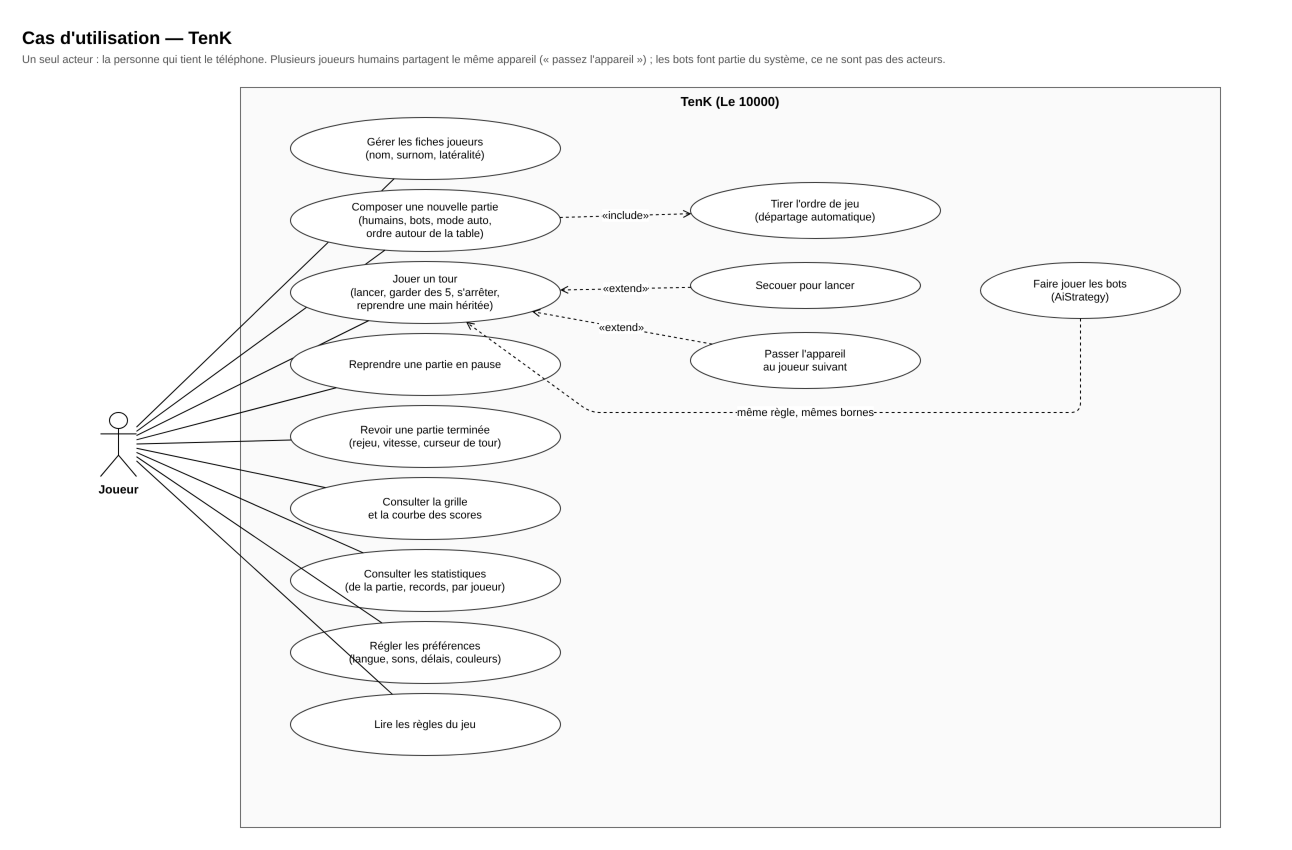
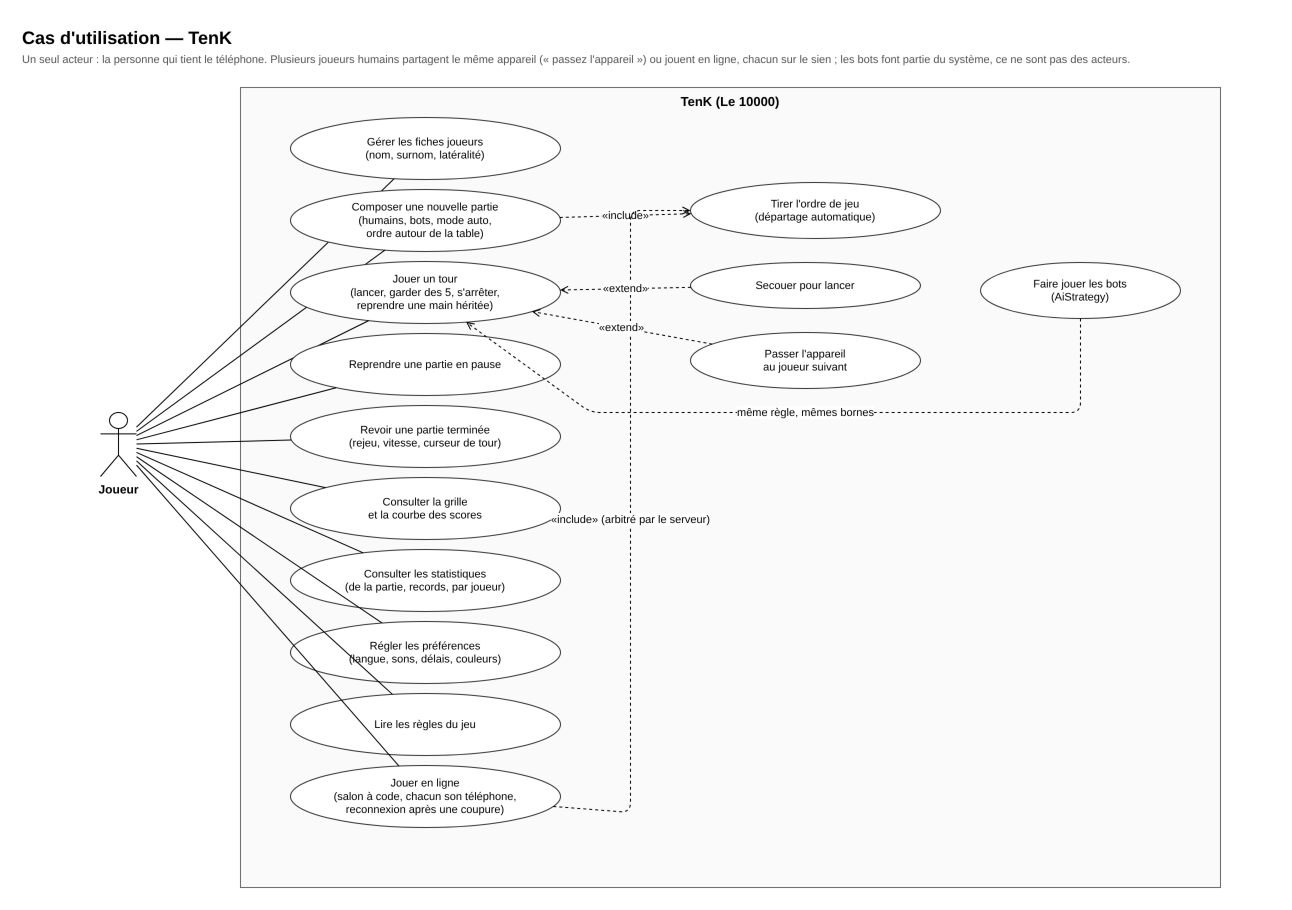
docs: online games in the architecture, the UML set and the privacy policy
Class diagram gains the online zone (shared protocol, client session,
server); components, deployment, use cases and screen flow show the server,
the TLS proxy and the three online screens; a new sequence diagram follows a
move from the room to the broadcast. The privacy policy now says what online
play sends (pseudo, random token, moves — in memory only) instead of
claiming the app never talks to a server.

Claude-Session: https://claude.ai/code/session_01KwBBGkCP45jdW91CU4y1he

diff --git a/docs/privacy-policy.html b/docs/privacy-policy.html
@@ -103,7 +103,7 @@
 <header>
   <div class="mark"><span class="die"></span> TenK</div>
   <h1>Politique de confidentialité — Privacy Policy</h1>
-  <div class="updated">Dernière mise à jour / Last updated: 31 août 2026</div>
+  <div class="updated">Dernière mise à jour / Last updated: 26 septembre 2026</div>
 </header>
 
 <main>
@@ -113,24 +113,39 @@
     does not do) with your data.
   </p>
 
-  <h2>Aucune donnée n'est collectée</h2>
+  <h2>Aucune donnée n'est collectée en jeu local</h2>
   <p>
-    TenK ne collecte, ne transmet et ne partage aucune donnée personnelle. L'application ne
-    contient aucun outil d'analyse, aucune publicité, aucun service tiers de suivi.
+    Quand tu joues sur cet appareil (contre des bots ou en te passant le téléphone), TenK ne
+    collecte, ne transmet et ne partage aucune donnée personnelle. L'application ne contient
+    aucun outil d'analyse, aucune publicité, aucun service tiers de suivi.
   </p>
 
   <h2>Fonctionnement hors ligne</h2>
   <p>
-    TenK ne nécessite aucune connexion internet pour fonctionner et n'envoie aucune information
-    vers un serveur, quel qu'il soit.
+    Le jeu local ne nécessite aucune connexion internet et n'envoie aucune information vers un
+    serveur. Seules les parties en ligne, facultatives, utilisent internet (voir ci-dessous).
+  </p>
+
+  <h2>Parties en ligne (facultatives)</h2>
+  <p>
+    Si tu choisis de jouer en ligne, TenK se connecte au serveur de jeu le temps de la partie.
+    Sont alors transmis : <strong>le pseudo que tu saisis</strong> (visible des autres joueurs du
+    salon), <strong>un jeton aléatoire</strong> qui te permet de retrouver ta place après une
+    coupure, et <strong>les coups de la partie</strong>. Ces informations ne sont conservées que
+    dans la mémoire du serveur, le temps de la partie, et sont effacées quand le salon disparaît
+    (au plus 24 heures après la dernière activité). Le serveur ne les écrit sur aucun disque, ne
+    les relie à aucune identité et ne les partage avec personne. Ton adresse IP n'est utilisée
+    qu'en mémoire, pour limiter les abus (nombre de connexions), et n'est pas enregistrée.
+    Aucun compte, aucune adresse e-mail, aucune publicité, aucun outil d'analyse.
   </p>
 
   <h2>Données stockées localement</h2>
   <p>
     Les seules données enregistrées sont conservées <strong>uniquement sur ton appareil</strong> :
-    le nom du joueur et tes préférences (langue, couleur des dés, sons, musique, délais
-    d'automatisation). Elles ne quittent jamais l'appareil et sont supprimées si tu désinstalles
-    l'application.
+    le nom du joueur, tes parties et tes préférences (langue, couleur des dés, sons, musique,
+    délais d'automatisation) et, pendant une partie en ligne, le jeton qui permet d'y revenir.
+    Ils restent sur l'appareil (hors ce qui est décrit pour les parties en ligne) et sont
+    supprimés si tu désinstalles l'application.
   </p>
 
   <h2>Aucun compte requis</h2>
@@ -138,8 +153,9 @@
 
   <h2>Enfants</h2>
   <p>
-    Comme TenK ne collecte aucune donnée, l'application peut être utilisée par des enfants en
-    toute confidentialité.
+    En jeu local, TenK ne collecte aucune donnée : l'application peut être utilisée par des
+    enfants en toute confidentialité. En ligne, le pseudo est visible des autres joueurs du
+    salon : il vaut mieux ne pas y mettre le vrai nom d'un enfant.
   </p>
 
   <h2>Modifications de cette politique</h2>
@@ -153,27 +169,47 @@
 
   <hr class="lang-divider"><span>English</span>
 
-  <h2>No data is collected</h2>
+  <h2>No data is collected in local play</h2>
   <p>
-    TenK does not collect, transmit, or share any personal data. The app contains no analytics,
-    no advertising, and no third-party tracking services.
+    When you play on this device (against bots or by passing the phone around), TenK does not
+    collect, transmit, or share any personal data. The app contains no analytics, no advertising,
+    and no third-party tracking services.
   </p>
 
-  <h2>Works entirely offline</h2>
-  <p>TenK does not require an internet connection to function and never sends any information to any server.</p>
+  <h2>Works offline</h2>
+  <p>
+    Local play needs no internet connection and sends no information to any server. Only online
+    games, which are optional, use the internet (see below).
+  </p>
+
+  <h2>Online games (optional)</h2>
+  <p>
+    If you choose to play online, TenK connects to the game server for the duration of the game.
+    What is then sent: <strong>the nickname you type</strong> (visible to the other players in the
+    room), <strong>a random token</strong> that lets you get your seat back after a dropped
+    connection, and <strong>the moves of the game</strong>. This is kept only in the server's
+    memory, for the length of the game, and is erased when the room goes away (at most 24 hours
+    after its last activity). The server writes it to no disk, links it to no identity and shares
+    it with no one. Your IP address is used in memory only, to limit abuse (number of
+    connections), and is not recorded. No account, no email address, no advertising, no analytics.
+  </p>
 
   <h2>Locally stored data</h2>
   <p>
-    The only information saved is stored <strong>on your device only</strong>: the player's name
-    and preferences (language, dice colour, sound, music, auto-play delays). It never leaves the
-    device, and is removed if you uninstall the app.
+    The only information saved is stored <strong>on your device</strong>: the player's name, your
+    games and preferences (language, dice colour, sound, music, auto-play delays) and, during an
+    online game, the token that lets you come back to it. It stays on the device (apart from what
+    is described for online games), and is removed if you uninstall the app.
   </p>
 
   <h2>No account required</h2>
   <p>The app does not ask for an account, a login, or an email address.</p>
 
   <h2>Children</h2>
-  <p>Since TenK collects no data at all, the app is safe for children to use.</p>
+  <p>
+    In local play TenK collects no data at all, so the app is safe for children to use. Online, the
+    nickname is visible to the other players in the room: better not to use a child's real name.
+  </p>
 
   <h2>Changes to this policy</h2>
   <p>If this policy changes, the updated version will be published at this same address.</p>

diff --git a/CLAUDE.md b/CLAUDE.md
@@ -17,13 +17,17 @@ flutter test                 # run the full test suite
 flutter test test/game/combination_test.dart   # run a single test file
 flutter test --plain-name "un craque affiche"  # run tests matching a name
 flutter run -d linux         # run the app locally (see below — this is the only viable local target)
+(cd server && dart pub get && dart analyze && dart test)   # the online-game server: analysis + tests
+dart run server/bin/server.dart                            # a local server on ws://localhost:8080/ws
 ```
 
-CI (`.github/workflows/build_apk.yaml`) has three jobs, on every push to `main` (plus
+CI (`.github/workflows/build_apk.yaml`) has four jobs, on every push to `main` (plus
 `pull_request` and `workflow_dispatch`, where `bump-build-number` is skipped):
 - `bump-build-number` (`ubuntu-latest`) — CI-side safety net for the local `.githooks/pre-push` hook
   (see Git hooks below). The other two jobs depend on it and check out the commit it resolves, so
   both build the same, possibly corrected, tree.
+- `test-server` (`ubuntu-latest`) — `dart analyze` + `dart test` in `server/` (see Online games below); it
+  also runs on pull requests, and is independent of the two build jobs.
 - `build-android` (`ubuntu-latest`) — `pub get`, `analyze`, `test`, then `build apk --release` and
   `build appbundle --release`, signed with the release keystore restored from a repo secret. Both are
   uploaded as artifacts, and the AAB is sent to the Google Play `internal` track.
@@ -128,6 +132,15 @@ from widgets. `lib/state/**` (Riverpod notifiers) is the only layer allowed to b
   only themselves; `playOrder` gives the seats in play order (see the order rule below). Old journals
   used per-player `rollFor` and always plain rotation — `simultaneous` tells the two apart, and must
   keep doing so, or archived games would silently replay with players on the wrong seats.
+- `game/dice_roll.dart` also holds `RecordingRandom` (wraps a `Random`, remembers the faces it rolled — the
+  server's side) and `ScriptedRandom` (hands back faces rolled elsewhere — the client's side, and it throws
+  if the engine asks for more or fewer than it was given). `GameAction.roll` / `diceOffRollAll` can carry
+  those `faces`; `applyGameAction` / `replayGame` use them instead of the generator, so a journal *with
+  faces* replays with **no seed** (`replayGame(setup, 0, actions)`). Online games rely on this; local
+  journals never carry faces and replay exactly as before.
+- `game/online/protocol.dart` — the wire messages of online games (`ClientMessage`, `ServerMessage`, the
+  enums, the limits), shared by the app and `server/`. `ClientMessage.fromJson` validates every field and
+  never lets a client ask for anything but a turn move (no roll-off, no roll, no faces).
 - `game/game_recording.dart` — the action journal (`GameAction`, `GameActionType`) and everything
   read from it: `replayGame` (rebuilds the exact engine state *and* the dice generator where the
   journal left it), `applyGameAction`, `replayTurnStarts` (where each turn begins — bounds the
@@ -165,6 +178,13 @@ from widgets. `lib/state/**` (Riverpod notifiers) is the only layer allowed to b
   have started: `resumeSavedGame` (`lib/ui/navigation.dart`) reopens an unresolved roll-off via
   `DiceOffNotifier.resumeFromSave`, and `GameNotifier.resumeFromSave` starts the first turn itself
   when the roll-off was resolved but the game never began.
+- `online_providers.dart`, `online_transport.dart` — `OnlineSession` owns the connection to the game server
+  (`OnlineTransport` is the seam tests fake), the room, and the reconnect token kept in
+  `OnlineCredentialsStore`. It numbers what it receives: a duplicate is ignored, a gap or a disagreement
+  re-syncs from the server's full journal. `GameNotifier` has an **online mode** (`startOnlineGame`,
+  `OnlineGameLink`): its action methods then only *request* the move (`sendIntent`), and the state changes
+  when the server's action comes back (`applyOnlineAction`). `isObservedTurn(i)` = a turn played without
+  me (bot **or** another online player): the game screen shows no controls and no popup for it.
 - `player_store.dart`, `player_providers.dart`, `player_statistics.dart` — the player database (one
   file per profile), the nickname resolution (`displayNamesFor(setup, profiles)` works from the
   config of the game **being shown**, linking by profile id, never by name — so an archived game
@@ -197,6 +217,31 @@ from widgets. `lib/state/**` (Riverpod notifiers) is the only layer allowed to b
     tests that land on a human "idle, can't bank yet" state should expect it to progress on its own
     rather than staying static.
 
+### Online games (`server/`)
+
+A separate pure-Dart package (shelf + WebSocket). It is **authoritative**: `GameAuthority` owns the dice
+generator (clients never learn the seed — they would predict the dice), runs the roll-off, validates every
+move against the real `GameEngine` and returns the actions to broadcast, each `roll` with its faces.
+`Room` holds the seats, the phase (lobby / playing / suspended / over) and the connections; `RoomManager`
+is the front door (per-address connection, room-creation and failed-join limits, message rate and size,
+sweep of expired rooms).
+
+- **The engine is shared by relative path, not as a package**: the app package depends on the Flutter SDK,
+  so a Dart-only server cannot depend on it. Code that imports `../../lib/game/**` therefore lives in
+  `server/src/` (not `server/lib/`: a file under a package's `lib/` is `package:` and cannot import out of
+  it). `lib/game` must keep importing nothing from Flutter, or the server stops compiling.
+- **The server never plays for anyone.** A disconnected player keeps their seat (reconnect token); past 2
+  minutes the room is *suspended* and waits. Rooms expire after 24 h idle (30 min in the lobby).
+- **No persistent state**: games live in memory. The privacy policy (`docs/privacy-policy.html`) states
+  exactly that — pseudo, random token and moves, in memory only, IP used in memory for limits and not
+  recorded. Hosting must keep to it: **no access logs** on the reverse proxy that terminates TLS.
+- Run it behind a TLS reverse proxy (`wss://`) with `TRUST_PROXY=1` so `X-Forwarded-For` gives the client
+  address. Build the image from the repo root: `docker build -f server/Dockerfile -t tenk-server .`. The app
+  reads its address from `--dart-define=TENK_SERVER_URL=wss://…/ws` (`defaultServerUrl`).
+- Known limit: the WebSocket layer buffers a frame before the size check; put a proxy limit in front.
+- Not in v1: bots and mixed local players in online games; archiving/replaying finished online games (a
+  `SavedGame` needs a seed — the with-faces journal would allow it).
+
 ## Design documents — keep them current
 
 `docs/architecture.md` and its class diagram (`docs/architecture/class-diagram.drawio` + `.png`)
@@ -207,7 +252,7 @@ exported PNG, and update the prose. `docs/screen-flow.drawio` does the same for 
 that is a few batches late is how the documents ended up three weeks behind the code once already.
 
 The rest of the UML set lives in `docs/uml/` and is indexed by `docs/uml.md` (use cases, components,
-deployment, the game-lifecycle and roll-off state machines, five sequence diagrams). The same rule
+deployment, the game-lifecycle and roll-off state machines, six sequence diagrams — the online one included). The same rule
 applies: a change to a call chain, a state transition, a storage location or the CI pipeline updates the
 matching diagram in the same batch. Export each one with
 `.claude/skills/architecture-diagram/export.sh <file.drawio>` and look at the PNG.

diff --git a/docs/architecture.md b/docs/architecture.md
@@ -162,6 +162,39 @@ pas.
   latéralité d'un joueur, elle, vient de sa fiche (`currentSeatRightHandedProvider`),
   le réglage d'appareil n'étant qu'un repli.
 
+## Les parties en ligne (turquoise, zone de droite)
+
+Une partie en ligne se joue à 2 à 6, chacun sur son téléphone, contre un **serveur Dart auto-hébergé**
+(`server/`). Le serveur est autoritaire : il détient le générateur aléatoire, joue le départage, valide chaque
+coup contre le vrai moteur et diffuse le résultat. Rien n'est réécrit : `GameAuthority` appelle
+`GameEngine`, `DiceOffState` et `applyGameAction` de `lib/game`, par import relatif (le package de l'app
+dépend du SDK Flutter, il ne peut pas être une dépendance d'un serveur Dart seul ; les fichiers de
+`lib/game` n'important rien de Flutter, ils se compilent tels quels côté serveur).
+
+- **Les clients ne connaissent jamais la seed.** Sinon ils prédiraient les dés. `RecordingRandom` note les
+  faces que le serveur tire, `GameAction.roll(faces)` et `diceOffRollAll(faces)` les portent dans le
+  journal, et `ScriptedRandom` les rend au client, qui rejoue avec le même `applyGameAction` que le jeu
+  local. Un journal avec faces se rejoue **sans seed** (`replayGame(setup, 0, actions)`) : c'est aussi ce
+  qui fait marcher, tels quels, la grille, la courbe et les statistiques d'une partie en ligne
+  (`gameRecord` en rend un). `ScriptedRandom` refuse les faces en trop ou en moins : un désaccord entre
+  serveur et client est signalé, pas absorbé.
+- **Le protocole** (`lib/game/online/protocol.dart`, partagé par les deux côtés) est du JSON versionné.
+  `ClientMessage.fromJson` valide chaque champ et ne laisse jamais un client demander autre chose qu'un coup
+  de tour : ni départage, ni lancer, ni faces (elles sont ignorées).
+- **`OnlineSession`** (`lib/state`) tient la connexion, le salon et le jeton de reprise (gardé dans
+  `SharedPreferences`) ; elle reconnecte avec attente croissante. Elle numérote les actions : un doublon est
+  ignoré, un trou ou un désaccord repart du journal complet du serveur. `GameNotifier` a un **mode en ligne**
+  (`startOnlineGame`) : ses méthodes d'action ne changent rien en local, elles *demandent* le coup
+  (`OnlineGameLink.sendIntent`) et l'état ne bouge que quand le serveur renvoie l'action
+  (`applyOnlineAction`). `isObservedTurn` regroupe les tours qui se jouent sans moi (bot ou autre joueur) :
+  l'écran n'y propose ni commande ni popup.
+- **Le serveur ne joue jamais à la place de quelqu'un.** Un joueur déconnecté garde son siège ; au-delà de
+  deux minutes la partie est *suspendue* et attend son retour. Le salon disparaît après 24 h d'inactivité
+  (30 min avant le départ).
+- **Limites** : connexions et créations de salon par adresse, essais de code infructueux (un code de salon ne
+  se devine pas), débit et taille des messages. Le serveur n'a aucun état persistant : les parties vivent en
+  mémoire.
+
 ## L'interface (orange)
 
 Représentée volontairement en couche grossière : les widgets Flutter sont
@@ -183,6 +216,8 @@ séquences) est présenté dans [`uml.md`](uml.md).
   (source : [`screen-flow.drawio`](screen-flow.drawio)). Le retour à l'accueil
   dépile jusqu'à `Setup` (`popToHome`) ; le rejeu spectateur est `Game` en
   `replayMode`, pas un écran à part.
+- [`uml/seq-online-game.png`](uml/seq-online-game.png) — du salon au coup joué en ligne (source :
+  [`uml/seq-online-game.drawio`](uml/seq-online-game.drawio)).
 - [`uml/state-game.png`](uml/state-game.png) — le cycle de vie d'une partie :
   choix de la main héritée, tour final et couronne qui change de main, pause,
   fin de partie et archivage (source : [`uml/state-game.drawio`](uml/state-game.drawio)).

diff --git a/docs/uml.md b/docs/uml.md
@@ -8,20 +8,22 @@ d'architecture ; les autres sont dans `docs/uml/`.
 
 ### Classes — [`architecture/class-diagram.png`](architecture/class-diagram.png)
 
-Les classes de `lib/game` et `lib/state`, champ par champ, et les grandes familles de `lib/ui`. Commenté en
+Les classes de `lib/game` et `lib/state`, champ par champ, les grandes familles de `lib/ui`, et la zone des
+parties en ligne (protocole partagé, session client, serveur `server/`). Commenté en
 détail dans [`architecture.md`](architecture.md).
 
 ### Paquets et composants — [`uml/components.png`](uml/components.png)
 
-Les trois couches et le sens autorisé des dépendances : l'interface dépend de l'état, l'état orchestre le
+Les trois couches (plus le serveur des parties en ligne, qui réutilise `lib/game`) et le sens autorisé des dépendances : l'interface dépend de l'état, l'état orchestre le
 moteur, et le moteur (`lib/game`) n'importe ni Flutter ni aucun paquet, ce qui permet de le tester en
 isolation. Chaque bibliothèque externe est rattachée à la couche qui l'utilise, ainsi que les deux
 stockages de l'appareil (fichiers JSON et SharedPreferences).
 
 ### Déploiement — [`uml/deployment.png`](uml/deployment.png)
 
-Du Raspberry Pi, qui développe mais ne peut construire ni Android ni iOS, aux téléphones : le hook
-`pre-push` qui incrémente le numéro de build, les trois jobs de la CI, les artefacts, Google Play (piste
+Du Raspberry Pi, qui développe mais ne peut construire ni Android ni iOS, aux téléphones — et à l'hôte du
+serveur de jeu (conteneur derrière un reverse proxy TLS) : le hook
+`pre-push` qui incrémente le numéro de build, les jobs de la CI (dont `test-server`), les artefacts, Google Play (piste
 internal), TestFlight et l'installation USB de l'IPA de développement. Il rappelle qu'un run vert ne prouve
 pas l'envoi aux stores. Un second workflow publie sur GitHub Pages ce dossier `docs/` et la documentation
 Dart du code, générée par dartdoc, sous
@@ -32,12 +34,12 @@ Dart du code, générée par dartdoc, sous
 ### Cas d'utilisation — [`uml/use-cases.png`](uml/use-cases.png)
 
 Ce que la personne qui tient le téléphone peut faire. Un seul acteur : plusieurs joueurs humains se passent
-le même appareil, et les bots font partie du système (ils jouent avec la même règle et les mêmes bornes
+le même appareil ou jouent en ligne chacun sur le leur, et les bots font partie du système (ils jouent avec la même règle et les mêmes bornes
 qu'un humain).
 
 ### Navigation entre écrans — [`screen-flow.png`](screen-flow.png)
 
-Les 18 écrans et ce qui fait passer de l'un à l'autre.
+Les 21 écrans et ce qui fait passer de l'un à l'autre, dont les trois des parties en ligne.
 
 ## Machines à états
 
@@ -82,6 +84,12 @@ Une sauvegarde ne contient pas l'état du jeu mais le journal et la seed : la re
 comme le rejeu d'une partie terminée reconstruisent tout avec `replayGame`. Le rejeu ne persiste jamais
 rien. Une partie mise en pause avant son premier lancer reprend elle aussi : sur son départage s'il n'était
 pas tranché (`DiceOffNotifier.resumeFromSave`), sinon avec son premier tour lancé d'office.
+
+### Partie en ligne — [`uml/seq-online-game.png`](uml/seq-online-game.png)
+
+Du salon au coup joué : le serveur tire les dés (les clients n'ont jamais la seed) et diffuse chaque lancer
+avec ses faces, que les clients rejouent avec le même moteur. Une intention refusée (pas son tour, coup
+illégal) ne change rien ; une connexion coupée se rétablit avec le jeton et un journal complet.
 
 ### Fin de partie, archivage, statistiques — [`uml/seq-game-over.png`](uml/seq-game-over.png)
 
